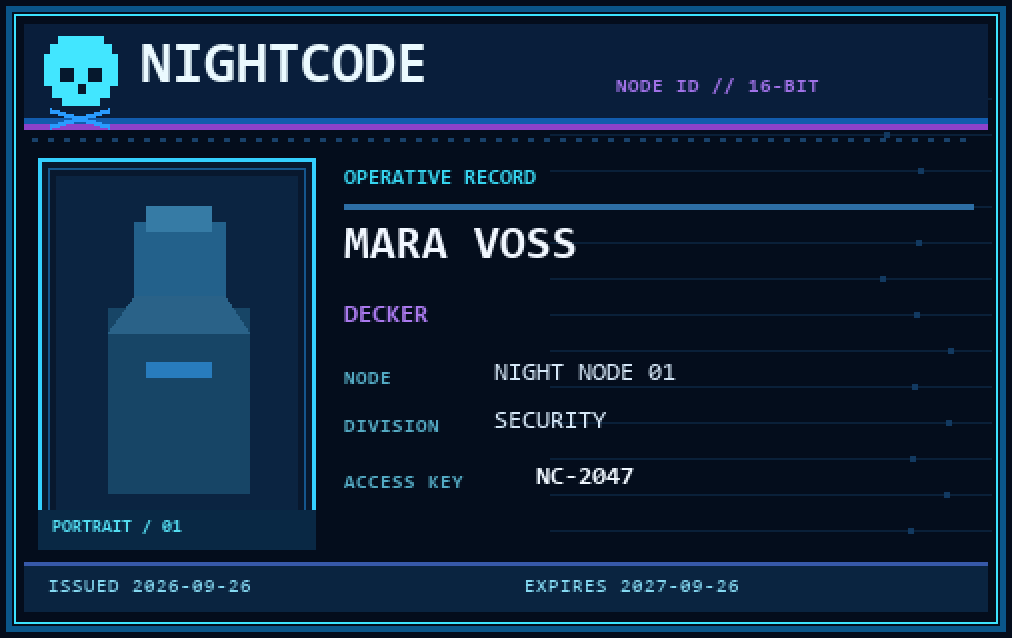
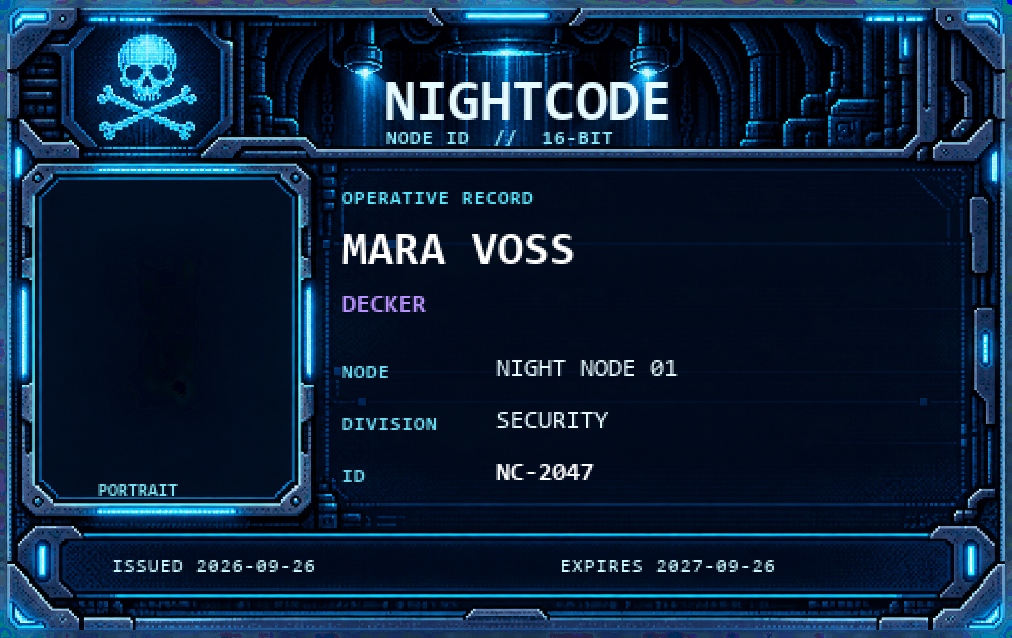
Replace NightCode placeholder art with GPT 16-bit graphics

diff --git a/retro-tools/badge_templates.py b/retro-tools/badge_templates.py
@@ -107,73 +107,40 @@ def _aus_card(data: dict, assets: Path) -> Image.Image:
     return image
 
 
-def _nightcode_card(data: dict) -> Image.Image:
-    """Draw at half resolution so every graphic edge lands on a 2-pixel grid."""
-    image = Image.new('RGB', (506, 319), '#040d1c')
-    d = ImageDraw.Draw(image)
-    # Staggered circuit traces and a hard, stepped chrome border.
-    for y in range(49, 273, 18):
-        d.line((275, y, 495, y), fill='#0a2039', width=1)
-        d.rectangle((474 - (y % 35), y - 1, 476 - (y % 35), y + 1), fill='#123960')
-    d.rectangle((3, 3, 502, 315), outline='#0a568a', width=3)
-    d.rectangle((7, 7, 498, 311), outline='#3ce3ff', width=1)
-    d.rectangle((12, 12, 493, 58), fill='#091e3b')
-    d.rectangle((12, 59, 493, 62), fill='#125cad')
-    d.rectangle((12, 62, 493, 64), fill='#8d42ca')
-    for x in range(16, 486, 8):
-        d.rectangle((x, 69, x + 2, 70), fill='#18416a')
-    # NightCode's pixel skull and crossed traces, echoing the site mark.
-    mark = [(7, 0, 29, 4), (3, 4, 33, 8), (0, 9, 36, 24),
-            (4, 24, 32, 30), (9, 30, 27, 34)]
-    ox, oy = 22, 18
-    for x0, y0, x1, y1 in mark:
-        d.rectangle((ox + x0, oy + y0, ox + x1, oy + y1), fill='#42e6ff')
-    d.rectangle((ox + 8, oy + 16, ox + 14, oy + 22), fill='#06182d')
-    d.rectangle((ox + 22, oy + 16, ox + 28, oy + 22), fill='#06182d')
-    d.rectangle((ox + 17, oy + 24, ox + 20, oy + 28), fill='#06182d')
-    d.line((ox + 3, oy + 37, ox + 32, oy + 45), fill='#299bff', width=3)
-    d.line((ox + 32, oy + 37, ox + 3, oy + 45), fill='#299bff', width=3)
-    d.text((70, 19), 'NIGHTCODE', font=font(29, True), fill='#ebfaff')
-    d.text((308, 38), 'NODE ID // 16-BIT', font=font(10, True), fill='#a172e8')
-    # Recessed portrait panel with pixel corners.
-    d.rectangle((19, 79, 157, 274), fill='#08182e', outline='#34cfff', width=2)
-    d.rectangle((24, 84, 152, 269), outline='#15568e', width=1)
+def _nightcode_card(data: dict, assets: Path) -> Image.Image:
+    """Layer editable badge data over GPT-generated 16-bit card artwork."""
+    with Image.open(assets / 'nightcode-badge-gpt-v2.png') as source:
+        image = source.convert('RGB').resize(SIZE, Image.Resampling.NEAREST)
     if data['photo'] and Path(data['photo']).is_file():
         try:
-            with Image.open(data['photo']) as src:
-                portrait = ImageOps.fit(src.convert('RGB'), (124, 181),
+            with Image.open(data['photo']) as source:
+                portrait = ImageOps.fit(source.convert('RGB'), (231, 308),
                                         method=Image.Resampling.LANCZOS, centering=(0.5, 0.3))
-            portrait = portrait.resize((62, 91), Image.Resampling.BOX).resize((124, 182), Image.Resampling.NEAREST)
-            image.paste(portrait.crop((0, 0, 124, 181)), (26, 86))
+            portrait = portrait.resize((116, 154), Image.Resampling.BOX).resize(
+                (232, 308), Image.Resampling.NEAREST)
+            image.paste(portrait.crop((0, 0, 231, 308)), (47, 188))
         except (OSError, ValueError):
             pass
-    else:
-        d.rectangle((28, 88, 148, 263), fill='#0b2441')
-        # Blocky silhouette, intentionally unlike the stock round avatar.
-        d.rectangle((67, 111, 112, 148), fill='#23618b')
-        d.rectangle((73, 103, 105, 115), fill='#367ba5')
-        d.rectangle((54, 154, 124, 246), fill='#174566')
-        d.polygon([(54, 166), (67, 148), (112, 148), (124, 166)], fill='#2a6288')
-        d.rectangle((73, 181, 105, 188), fill='#287cbd')
-    d.rectangle((19, 255, 157, 274), fill='#092844')
-    d.text((26, 259), 'PORTRAIT / 01', font=font(9, True), fill='#53ddf1')
-    # Legible operator data in a clear grid.
-    x = 172
-    d.text((x, 83), 'OPERATIVE RECORD', font=font(11, True), fill='#36d5f0')
-    d.rectangle((x, 102, 486, 104), fill='#2d6ea5')
-    _text(d, (x, 111), data['name'].upper(), size=23, fill='#f1f7ff', bold=True, max_width=312)
-    d.text((x, 151), (data['role'] or 'OPERATIVE').upper(), font=font(13, True), fill='#ab7aef')
-    d.text((x, 184), 'NODE', font=font(10, True), fill='#54abc4')
-    _text(d, (x + 75, 180), data['site'] or 'LOCAL', size=13, fill='#d7e9f9', max_width=236)
-    d.text((x, 208), 'DIVISION', font=font(10, True), fill='#54abc4')
-    _text(d, (x + 75, 204), data['department'] or 'FIELD', size=13, fill='#d7e9f9', max_width=236)
-    d.text((x, 236), 'ACCESS KEY', font=font(10, True), fill='#54abc4')
-    _text(d, (x + 96, 232), data['employee_id'], size=13, fill='#f0f8ff', bold=True, max_width=218)
-    d.rectangle((12, 281, 493, 305), fill='#0a2440')
-    d.rectangle((12, 281, 493, 282), fill='#3759a9')
-    _text(d, (24, 288), f"ISSUED {data['issued'] or '--'}", size=10, fill='#85daf2')
-    _text(d, (262, 288), f"EXPIRES {data['expires'] or '--'}", size=10, fill='#85daf2')
-    return image.resize(SIZE, Image.Resampling.NEAREST)
+    # Text stays live so names and dates remain editable in Netcon.
+    layer = Image.new('RGBA', (506, 319))
+    d = ImageDraw.Draw(layer)
+    d.text((192, 38), 'NIGHTCODE', font=font(29, True), fill='#e5fbff')
+    d.text((193, 64), 'NODE ID  //  16-BIT', font=font(10, True), fill='#8ae9fb')
+    d.text((171, 94), 'OPERATIVE RECORD', font=font(10, True), fill='#58e4fb')
+    _text(d, (171, 114), data['name'].upper(), size=23, fill='#ffffff', bold=True, max_width=300)
+    _text(d, (171, 146), (data['role'] or 'OPERATIVE').upper(), size=13,
+          fill='#b993ff', bold=True, max_width=285)
+    d.text((171, 181), 'NODE', font=font(10, True), fill='#69d9f0')
+    _text(d, (248, 178), data['site'] or 'LOCAL', size=13, fill='#e5faff', max_width=235)
+    d.text((171, 207), 'DIVISION', font=font(10, True), fill='#69d9f0')
+    _text(d, (248, 204), data['department'] or 'FIELD', size=13, fill='#e5faff', max_width=235)
+    d.text((171, 233), 'ID', font=font(10, True), fill='#69d9f0')
+    _text(d, (248, 230), data['employee_id'], size=13, fill='#ffffff', bold=True, max_width=235)
+    d.text((49, 241), 'PORTRAIT', font=font(9, True), fill='#79dfee')
+    _text(d, (56, 278), f"ISSUED {data['issued'] or '--'}", size=10, fill='#c7f7ff')
+    _text(d, (280, 278), f"EXPIRES {data['expires'] or '--'}", size=10, fill='#c7f7ff')
+    overlay = layer.resize(SIZE, Image.Resampling.NEAREST)
+    return Image.alpha_composite(image.convert('RGBA'), overlay).convert('RGB')
 
 
 def _photo(canvas: Image.Image, photo_path: str, box: tuple[int, int, int, int], fill: str):
@@ -209,7 +176,7 @@ def render(record: dict, assets: Path) -> Image.Image:
     if template == 'Allied Universal staff':
         image = _aus_card(data, assets)
     elif template == 'NightCode in-world':
-        image = _nightcode_card(data)
+        image = _nightcode_card(data, assets)
     else:
         image = Image.new('RGB', SIZE, '#ecf0e8')
         d = ImageDraw.Draw(image)

diff --git a/nightcode-app/nightcode.py b/nightcode-app/nightcode.py
@@ -9,7 +9,7 @@ import sys
 import urllib.parse
 
 from PySide6.QtCore import QDir, QObject, Qt, QUrl, Signal
-from PySide6.QtGui import QAction, QPixmap
+from PySide6.QtGui import QColor, QFont, QPainter, QPixmap
 from PySide6.QtWidgets import (
     QApplication, QDialog, QDialogButtonBox, QFileDialog, QFileSystemModel,
     QFormLayout, QHBoxLayout, QLabel, QLineEdit, QMainWindow, QMessageBox,
@@ -21,11 +21,12 @@ from PySide6.QtWebEngineWidgets import QWebEngineView
 
 from operations import copy_items, download_url, duplicate_items, github_download, github_upload, supabase_upload
 
+ASSETS = Path(getattr(sys, '_MEIPASS', Path(__file__).resolve().parent)) / 'assets'
+
 
 STYLE = """
 QWidget { background:#061326; color:#bdefff; font: 11pt Consolas; }
 QMainWindow, QDialog { background:#030b1a; }
-QLabel#masthead { color:#43eaff; font: bold 25pt Consolas; padding:6px; }
 QLabel#subtitle { color:#9b7df4; font: bold 10pt Consolas; }
 QPushButton { color:#c7f8ff; background:#0d2743; border:1px solid #3194b9;
               padding:7px 10px; }
@@ -48,6 +49,31 @@ QSplitter::handle { background:#174c69; }
 class JobSignals(QObject):
     done = Signal(str)
     failed = Signal(str)
+
+
+class NightcodeBanner(QWidget):
+    """Live title over GPT-generated NightCode marquee art."""
+    def __init__(self):
+        super().__init__()
+        self.setFixedHeight(190)
+        self.art = QPixmap(str(ASSETS / 'nightcode-marquee-gpt-v2.png'))
+
+    def paintEvent(self, event):
+        super().paintEvent(event)
+        painter = QPainter(self)
+        if not self.art.isNull():
+            source_height = min(self.art.height(), round(self.art.width() * self.height() / self.width()))
+            source_y = max(0, (self.art.height() - source_height) // 2)
+            painter.drawPixmap(self.rect(), self.art, self.art.rect().adjusted(
+                0, source_y, 0, -(self.art.height() - source_y - source_height)))
+        painter.setPen(QColor('#e8fcff'))
+        painter.setFont(QFont('Consolas', 30, QFont.Weight.Bold))
+        painter.drawText(350, 87, 'NIGHTCODE')
+        painter.setPen(QColor('#67e6fa'))
+        painter.setFont(QFont('Consolas', 11, QFont.Weight.Bold))
+        painter.drawText(354, 119, 'DATA TRANSFER  /  DUPLICATOR  /  WEB')
+        painter.setPen(QColor('#a393ed'))
+        painter.drawText(max(350, self.width() - 205), 42, '● LOCAL NODE')
 
 
 class BrowserView(QWebEngineView):
@@ -101,14 +127,7 @@ class NightCode(QMainWindow):
         self.setCentralWidget(root)
         layout = QVBoxLayout(root)
         layout.setContentsMargins(12, 8, 12, 8)
-        title = QHBoxLayout()
-        brand = QLabel('☠ NIGHTCODE')
-        brand.setObjectName('masthead')
-        title.addWidget(brand)
-        title.addWidget(QLabel('NC:/  DATA TRANSFER / DUPLICATOR / WEB', objectName='subtitle'))
-        title.addStretch()
-        title.addWidget(QLabel('● LOCAL NODE', objectName='subtitle'))
-        layout.addLayout(title)
+        layout.addWidget(NightcodeBanner())
 
         controls = QHBoxLayout()
         self.path_entry = QLineEdit()

diff --git a/retro-tools/README.md b/retro-tools/README.md
@@ -23,6 +23,6 @@ Both apps store preferences in `%LOCALAPPDATA%\RetroTools`. Do not put secrets i
 
 ## Artwork
 
-The mascots, Genesis-era character portraits, Disk Dude branding, and disc/badge/folder/lock/game icons are SpriteCook exports in `assets/spritecook/`. The Netcon emblem and wide marquee are the user-supplied images in `assets/user-provided/`; they drive Netcon's window icon and live header. `make_assets.py` installs the approved files into `assets/`, makes Windows icons, and updates `spritecook-assets.json` with source IDs and hashes. Running it again preserves the supplied Netcon branding.
+The mascots, Genesis-era character portraits, Disk Dude branding, and disc/badge/folder/lock/game icons are SpriteCook exports in `assets/spritecook/`. The NightCode badge plate in `assets/nightcode-badge-gpt-v2.png` is GPT-generated 16-bit artwork; Netcon layers editable text and an optional photo over it. The Netcon emblem and wide marquee are the user-supplied images in `assets/user-provided/`; they drive Netcon's window icon and live header. `make_assets.py` installs the approved SpriteCook and supplied files into `assets/`, makes Windows icons, and updates `spritecook-assets.json` with source IDs and hashes. Running it again preserves the NightCode badge plate and supplied Netcon branding.
 
 Disk Dude uses its dark SpriteCook banner, logo, portrait, and extracted button frame. Netcon uses the supplied chrome and neon branding with matching tabs, panels, footer, portrait, and generated controls. Text and interactive controls remain native for legibility. The `*-ui-concept.png` files are visual design references, not screenshots of currently implemented features. The complete extracted UI sheets are included for further expansion of the apps.

diff --git a/nightcode-app/README.md b/nightcode-app/README.md
@@ -2,6 +2,8 @@
 
 NightCode is a Windows desktop file workstation with a DOS-style command shell, a file preview window, and a live embedded internet browser. The browser uses Qt WebEngine, so typed addresses open inside NightCode and web page downloads use a Save dialog.
 
+The `assets/nightcode-marquee-gpt-v2.png` header is GPT-generated 16-bit pixel artwork. NightCode paints its live title and status over that art. `previews/nightcode-banner-runtime.png` shows the header as it appears in the app.
+
 ## Run
 
 Install Python 3.10+ and `pip install -r requirements.txt`, then run `Launch-NightCode.ps1` or `py -3 nightcode.py`. To make a Windows folder build, install PyInstaller and run `Build-NightCode.ps1`; launch `dist/NightCode/NightCode.exe`. Keep the built folder together because Qt WebEngine has runtime files.
